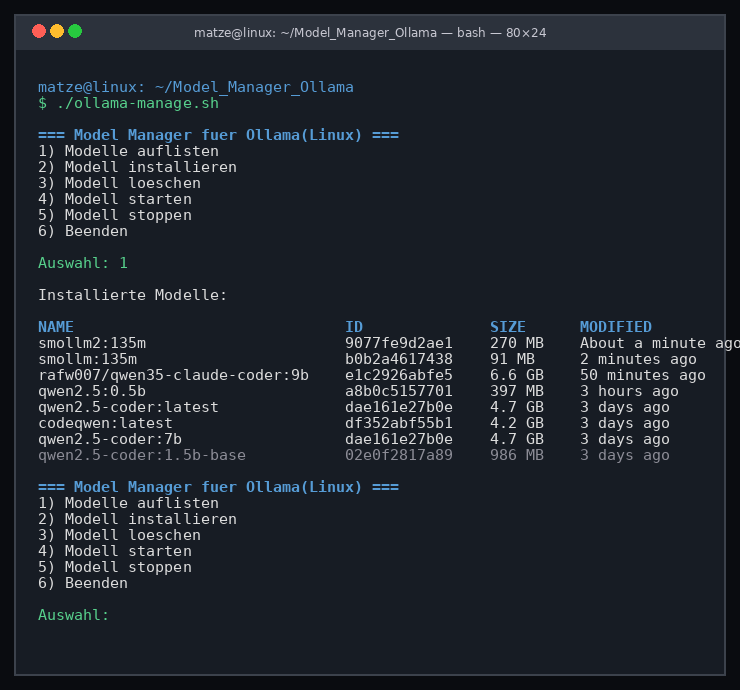
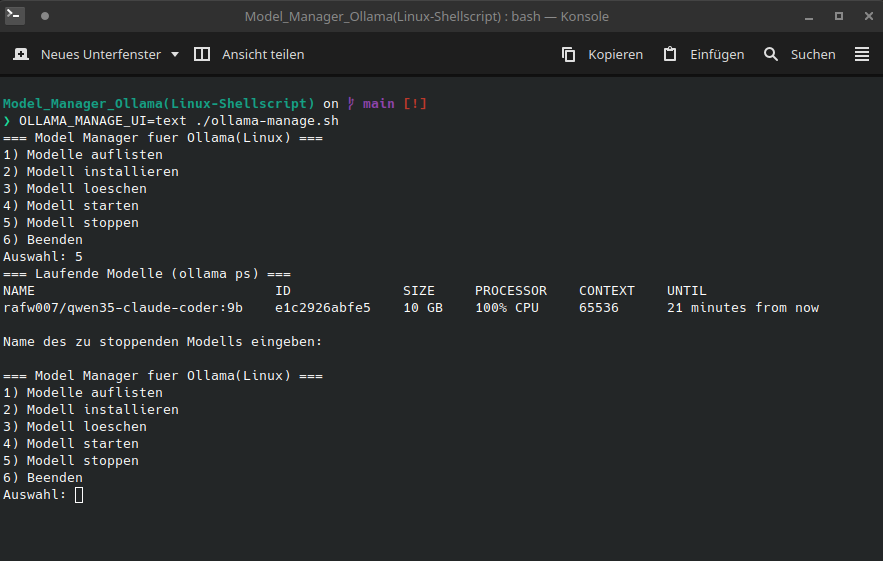
ok

Changed region(s): [[0.0, 0.0, 1.0, 1.0], [0.4351, 0.4545, 0.6216, 0.6667]]

diff --git a/README.md b/README.md
@@ -16,18 +16,19 @@ Ein kleines Shell-Projekt zur komfortablen Verwaltung von [Ollama](https://ollam
 ## Enthaltene Skripte
 
 | Skript | Beschreibung |
-|---|---|
+| --- | --- |
 | `ollama-manage.sh` | Interaktives Werkzeug zum Auflisten, Installieren, Starten, Stoppen und Entfernen von Modellen |
 | `modelleZumTestenInstall.sh` | Installiert eine kleine Auswahl an Modellen für Test- und Demo-Setups |
 
 ## Projektstruktur
 
-```
+``` text
 ├── ollama-manage.sh              # Hauptskript (Verwaltung)
 ├── modelleZumTestenInstall.sh    # Testmodelle herunterladen
 ├── LICENSE                       # MIT-Lizenz
 ├── README.md                     # Diese Dokumentation
 └── Beispielbild/
+    └── ollama-manage-beispiel-whipe.png
     └── ollama-manage-beispiel.png
 ```
 
@@ -39,7 +40,7 @@ Ein kleines Shell-Projekt zur komfortablen Verwaltung von [Ollama](https://ollam
 ### Optionale Abhängigkeiten
 
 | Tool | Zweck |
-|---|---|
+| --- | --- |
 | `fzf` | Komfortable, durchsuchbare Modellauswahl (wird bevorzugt verwendet) |
 | `whiptail` | Terminal-Menü mit grafischen Dialogen (z. B. Paket `whiptail` bzw. `newt` auf Debian/Ubuntu) |
 
@@ -64,7 +65,7 @@ Das Skript prüft beim Start, ob `ollama` installiert und erreichbar ist. Anschl
 ### Menüpunkte
 
 | Textmenü | whiptail-Dialog | Funktion |
-|---|---|---|
+| --- | --- | --- |
 | 1) Modelle auflisten | Modelle auflisten | Zeigt alle lokal installierten Modelle |
 | 2) Modell installieren | Modell installieren | Lädt ein Modell herunter (`ollama pull`) |
 | 3) Modell löschen | Modell löschen | Entfernt ein ausgewähltes Modell (`ollama rm`) |
